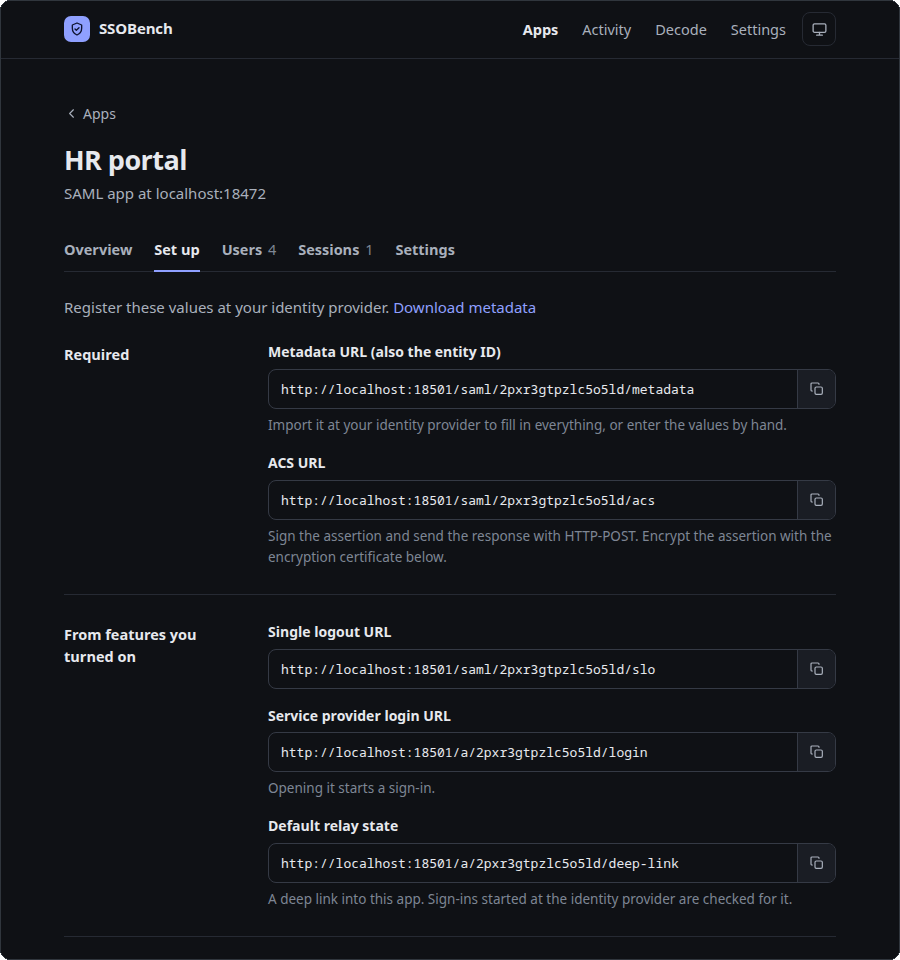
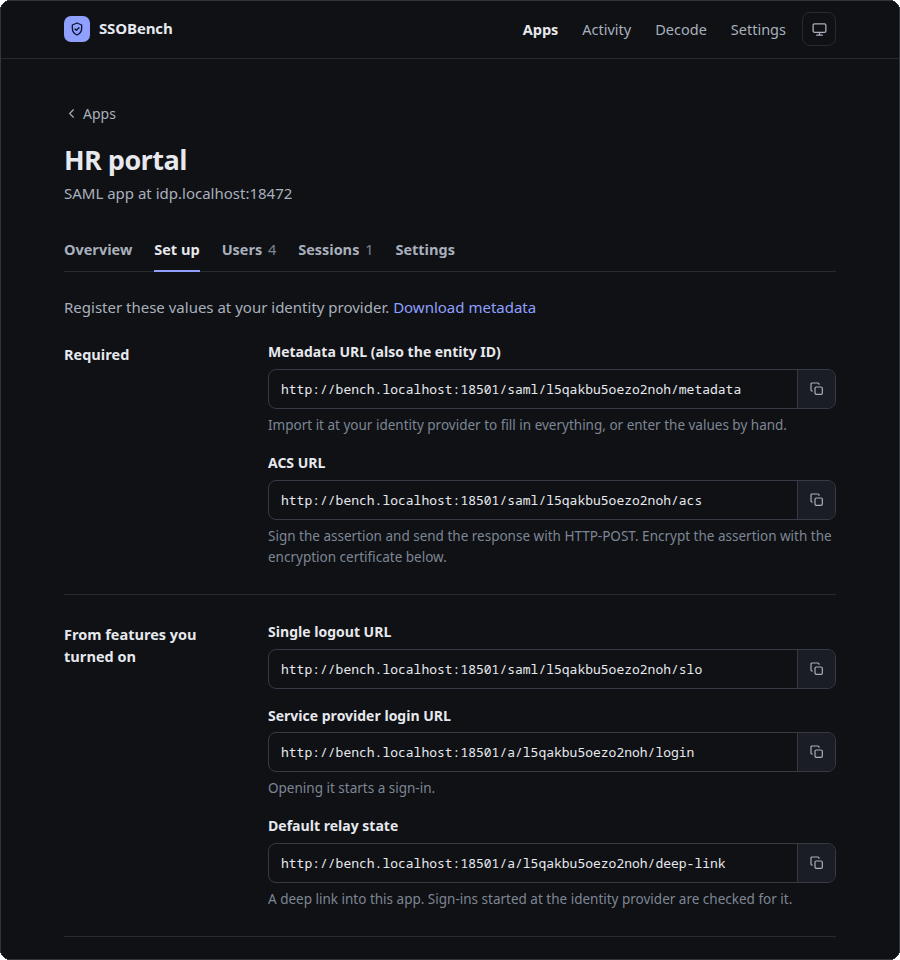
Round 3 docs: origin line, design decisions in the README, tighter claims
README: tagline carries the use case, a first-person origin line, a
configuration-drift bullet, named legacy algorithms, Design decisions,
and How it's built shows the tests and the squash. Guide: security
claims say exactly what is tested. US spelling throughout. Contributing
invites bug reports and pull requests only. Screenshots use readable
host names for SSOBench and the identity provider.

AI-Primary-Author: claude; model=claude-opus-5-5; surface=claude-code; role=writer; verified=runtime-log
Human-Controller: Ryan Hebert <ryan.hebert@gmail.com>

diff --git a/internal/web/assets/app.js b/internal/web/assets/app.js
@@ -104,7 +104,7 @@ document.querySelectorAll(".tabs [aria-current], .subtabs [aria-current]").forEa
   };
   // The browser's own errors, in plain words.
   const why = (e) => {
-    if (e && e.name === "NotAllowedError") return "The passkey request was cancelled or timed out.";
+    if (e && e.name === "NotAllowedError") return "The passkey request was canceled or timed out.";
     if (e && e.name === "InvalidStateError") return "That passkey is already added.";
     if (e && e.name === "SecurityError") return "The browser refused passkeys at this address.";
     return (e && e.message) || "Something went wrong.";

diff --git a/internal/web/assets/app.css b/internal/web/assets/app.css
@@ -1,4 +1,4 @@
-/* SSOBench: one quiet column, hairlines instead of boxes, colour only for status. */
+/* SSOBench: one quiet column, hairlines instead of boxes, color only for status. */
 :root {
   --bg: #ffffff;
   --ink: #1a1f29;

diff --git a/internal/web/oidc_flow.go b/internal/web/oidc_flow.go
@@ -219,7 +219,7 @@ func oauthFix(code string) string {
 	case "invalid_scope":
 		return "One of the requested scopes is not allowed for this client."
 	case "access_denied":
-		return "The user cancelled, or isn't allowed to use this application. If they should be, assign the user (or a group they're in) to the application at your identity provider, then test again."
+		return "The user canceled, or isn't allowed to use this application. If they should be, assign the user (or a group they're in) to the application at your identity provider, then test again."
 	case "invalid_request":
 		return "Often a redirect URI that is not registered for this client. At your identity provider, register exactly the redirect URI shown under Set up on the app's page."
 	}

diff --git a/internal/web/users.go b/internal/web/users.go
@@ -217,7 +217,7 @@ func (s *Server) userAdd(w http.ResponseWriter, r *http.Request) {
 }
 
 // userImport adds or updates users from CSV: userName,email,givenName,
-// familyName,active. A header row is recognised and skipped.
+// familyName,active. A header row is recognized and skipped.
 func (s *Server) userImport(w http.ResponseWriter, r *http.Request) {
 	app := s.directoryApp(w, r)
 	if app == nil {

diff --git a/main_test.go b/main_test.go
@@ -55,7 +55,7 @@ func TestCertIsReused(t *testing.T) {
 	}
 }
 
-// Every module the binary depends on must have its licence in
+// Every module the binary depends on must have its license in
 // THIRD_PARTY_NOTICES.txt, which ships with every release.
 func TestThirdPartyNoticesCoverDependencies(t *testing.T) {
 	mod, err := os.ReadFile("go.mod")

diff --git a/internal/web/saml_test.go b/internal/web/saml_test.go
@@ -301,6 +301,6 @@ func TestNewAppAsksForProtocol(t *testing.T) {
 		}
 	}
 	if _, home := get(t, c, ts.URL+"/"); !strings.Contains(home, `href="/apps/new"`) || strings.Contains(home, "New SAML app") {
-		t.Error("empty state still favours one protocol")
+		t.Error("empty state still favors one protocol")
 	}
 }

diff --git a/README.md b/README.md
@@ -4,15 +4,17 @@
 [![CI](https://github.com/ryanhebert/ssobench/actions/workflows/ci.yml/badge.svg)](https://github.com/ryanhebert/ssobench/actions/workflows/ci.yml)
 [![License](https://img.shields.io/github/license/ryanhebert/ssobench)](LICENSE)
 
-**See exactly what your identity provider sends, and what is wrong with it.**
+**See exactly what your identity provider sends, and what is wrong with it.** Prove a new
+integration works before the real application is ready, or show that a failure isn't the
+application's fault.
 
 When a single sign-on integration fails, the application usually says little more than "sign-in
 failed". SSOBench takes the application's place. Register it at your identity provider like any SAML
 or OpenID Connect app and sign in. It shows every attribute and claim that arrived, every check that
 passed or failed, and how to fix each failure.
 
-I built it because when single sign-on breaks, the people setting it up rarely get to see what their
-identity provider actually sent.
+I've spent years on calls with people whose SSO rollout just broke, reading traces they'd never seen.
+This is the tool I wanted to hand them.
 
 <picture>
   <source media="(prefers-color-scheme: dark)" srcset="docs/images/result-dark.png">
@@ -21,22 +23,22 @@ identity provider actually sent.
 
 ## What you can do with it
 
-- Prove a new integration works before the real application is ready, or show that a failure isn't
-  the application's fault.
 - Find out why a sign-in fails: the wrong audience or ACS URL, an expired or rotated certificate, a
-  missing attribute, a clock out of sync, a weak algorithm.
+  missing attribute, a clock out of sync, a weak or legacy algorithm (SHA-1, Triple DES, RSA PKCS#1
+  v1.5), each flagged with the fix.
+- Catch configuration drift: list the attributes an application needs, and every later sign-in that
+  lacks one fails.
 - Check an authorization server against OAuth 2.1 (an IETF draft): PKCE required, the implicit and
   password grants refused, and tokens for services through client credentials, checked the way an
   API would check them.
-- Test the whole user lifecycle, with SCIM provisioning, roles, sessions and single logout, against
-  an app that behaves like a real one.
+- Test the user lifecycle: SCIM provisioning, roles, sessions and single logout.
 - Give a test user a realistic sign-in page, and get a reference code back when it fails.
 - Attach a step-by-step log of any attempt to a support ticket.
 
 It supports SAML 2.0, OpenID Connect and OAuth 2.1, and runs as a single executable on Windows, macOS
-or Linux. Unlike hosted debuggers, it runs on your machine, listening only on `localhost` by default,
-so tokens stay there. Unlike a decoder, it acts as the application: it validates signatures,
-provisions over SCIM, and keeps sessions and roles.
+or Linux. Hosted debuggers see your tokens; this runs on your machine, on `localhost` by default. A
+decoder only reads messages; SSOBench validates signatures, provisions over SCIM, and keeps sessions
+and roles.
 
 ## Quick start
 
@@ -90,15 +92,29 @@ own machine or a test server, and if other people can reach it, turn on console 
 or passkeys) under **Settings**. The [guide](docs/guide.md#security) explains what is stored and
 how. To report a vulnerability, see [SECURITY.md](SECURITY.md).
 
+## Design decisions
+
+- Two direct dependencies, both for XML signatures. Everything else is written on the standard
+  library so each check can explain what it found, at the cost of verification code that has to be
+  tested hard.
+- Checks run only on signed content: the assertion or token the signature covers, never the document
+  around it.
+- It plays the application. A mock identity provider is out of scope for now.
+
+More in the [guide](docs/guide.md#design-decisions).
+
 ## How it's built
 
-AI coding agents write the code, working from [AGENTS.md](AGENTS.md). I design it, decide what each
-check tests and how it explains a failure, set the dependency limits and the tests, and test it with
-real sign-ins.
+AI coding agents write the code, working from [AGENTS.md](AGENTS.md), which holds the rules they work
+under. I design it, decide what each check tests and how it explains a failure,
+[set the dependency limits and the tests](docs/guide.md#design-decisions), and test it with real
+sign-ins. Every change runs against end-to-end tests with in-process SAML and OpenID Connect fakes,
+and the JWT and passkey verifiers are fuzz-tested. The first commit is a squash of earlier
+agent-written work; nothing here was written by hand.
 
 ## Contributing
 
-Bug reports, notes on how a particular identity provider behaves, and pull requests are welcome. See
+Bug reports and pull requests are welcome. See
 [CONTRIBUTING.md](CONTRIBUTING.md) and the [roadmap](ROADMAP.md).
 
 ## License

diff --git a/docs/guide.md b/docs/guide.md
@@ -248,14 +248,14 @@ On Windows, use a service wrapper such as [WinSW](https://github.com/winsw/winsw
 
 ## Design decisions
 
-- It runs on your machine. SSOBench listens on `localhost` by default, so tokens from a real tenant
+- Local by default. SSOBench listens on `localhost` by default, so tokens from a real tenant
   never pass through someone else's server. To test with other people, you run it on a server of
   your own.
-- It trusts only signed content. Checks read the assertion or token the signature covers, never the
-  document around it, and unverified content is labelled as such.
-- It has two dependencies. Everything else is written on the standard library so each check can
-  explain what it found. The cost is verification code that has to be tested hard, which is why it
-  is fuzz-tested.
+- Only signed content is trusted. Checks read the assertion or token the signature covers, never the
+  document around it, and unverified content is labeled as such.
+- Two direct dependencies. Everything else is written on the standard library so each check can
+  explain what it found. The cost is verification code that has to be tested hard, which is why the
+  JWT and passkey verifiers are fuzz-tested.
 - It plays the application, not the identity provider. Testing an application without a real
   identity provider is out of scope for now.
 
@@ -276,9 +276,13 @@ in place of a production one.
   - For unattended setups, a password can also be given at start with `-admin-password-file` or the
     `SSOBENCH_ADMIN_PASSWORD` environment variable.
   - If you are locked out, start SSOBench once with `-reset-console-sign-in`.
-- Signatures: SAML checks run only on the content the signature covers, the standard defence against
-  signature wrapping, and tests cover the known wrapping shapes. A response that fails to decrypt
-  gives the same message whatever the cause, so SSOBench cannot be used to probe the encryption key.
+- Signatures: SAML checks run only on the content the signature covers, the standard defense against
+  signature wrapping. Tests replay the signature-wrapping shapes from Somorovsky et al., "On Breaking
+  SAML" (2012), at both the assertion and the response level, and the comment-truncation bug
+  (CVE-2017-11427).
+- Decryption: a response that fails to decrypt gives the same message whatever the cause, so its
+  error messages are not a padding or Bleichenbacher oracle. AES-CBC and RSA PKCS#1 v1.5 are still
+  flagged as weak.
 - Host names: SSOBench answers only to IP addresses, `localhost`, this machine's names, the
   `-base-url` host and names given with `-allow-host`. A web page elsewhere therefore cannot reach it
   through a DNS name it controls (DNS rebinding).

diff --git a/AGENTS.md b/AGENTS.md
@@ -20,7 +20,7 @@ UI, apps kept in an optional JSON state file. Notes for contributors and coding 
 
 - Dependencies: Go standard library plus `goxmldsig` and `etree` only. Adding one needs a reason.
 - Every check returns a `check.Result` with a plain-language `Fix` for warnings and failures.
-- Checks run on signature-verified content only; unverified data is labelled as such.
+- Checks run on signature-verified content only; unverified data is labeled as such.
 - Never log or render the client secret. Tokens in the log go through `shortToken`.
 - UI: system fonts, no external assets, CSP `default-src 'self'`. Light and dark themes via CSS tokens
   in `assets/app.css`. Sentence case, no emojis.

diff --git a/CONTRIBUTING.md b/CONTRIBUTING.md
@@ -1,6 +1,6 @@
 # Contributing
 
-Bug reports, notes on how a particular identity provider behaves, and pull requests are all welcome.
+Bug reports and pull requests are welcome.
 
 ## Reporting a problem
 
